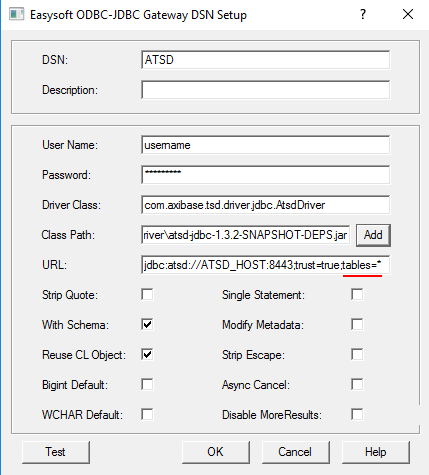
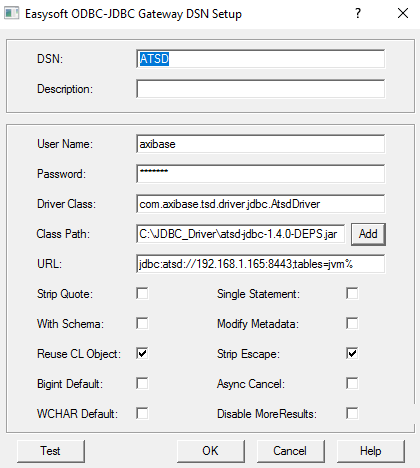
Minor fixes

diff --git a/integration/spss/statistics/README.md b/integration/spss/statistics/README.md
@@ -20,7 +20,7 @@ Analyze | Apply statistical functions to the dataset.
 ## Load Sample Data into ATSD
 
 1. Log into the ATSD web interface
-2. Open **Metrics -> Data Entry**, select the 'Commands' tab.
+2. Open **Metrics > Data Entry**, select the 'Commands' tab.
 3. Copy the [series commands](resources/commands.txt) into the form and click Submit/Send.
 
 ![](resources/metrics_entry.png)
@@ -87,7 +87,7 @@ WHERE T0.datetime BETWEEN '2013-01-01T00:00:00Z' AND '2017-01-01T00:00:00Z'
 ### Import from CSV Files
 
 * Export data from ATSD into CSV files as described in the **Exporting Data from ATSD** section at the end of this article.
-* Open **File -> Import Data -> CSV Data...**.
+* Open **File > Import Data > CSV Data...**.
 * Select the desired CSV files and click Open to import the `prices.sav` and `weights.sav` files.
 
 ![](images/import_dataset.png)
@@ -108,7 +108,7 @@ To prevent the `datetime` and `value` columns from being merged, their names mus
 
 Merge the two datasets by adding the `weight` column from the `weights.sav` dataset to the `prices.sav` dataset.
 
-* Open **Data -> Merge Files... -> Add Variables...**
+* Open **Data > Merge Files... > Add Variables...**
 * Select `weights.sav` dataset.
 * Select the desired table you want to merge it with. 
 * Choose the "One-to-Many" option and open the 'Variables' tab in the dialog window.
@@ -133,7 +133,7 @@ To calculate the weighted CPI for each year, the CPI value for a given category 
 
 Open the `prices_merged.sav` dataset and create the new column `categ_ind`.
 
-* Open **Transform -> Compute Variable...**  
+* Open **Transform > Compute Variable...**  
 * Place the columns from the left into the expression editor and specify a formula. 
 * Select the `value` and `weight` columns, divide `weight` by 1000 and multiply `value` by the adjusted `weight`. 
 * Assign a name to the new column.
@@ -150,13 +150,13 @@ SPSS provides two alternatives to aggregate data by period.
   
 #### Aggregation using the Analyze Menu
     
-* Open **Analyze -> Reports -> Report Summaries in Columns...** 
+* Open **Analyze > Reports > Report Summaries in Columns...** 
 * Move the `categ_index` column to the 'Summary Variables' field and select the `SUM` aggregation function. 
 * Set the `datetime` column as the break variable, which is used to group the resulting data. You can format aggregation columns in the dialog window.
 
 ![](images/analysis_reports_summary_columns.png)
     
-* Publish the report by selecting **File -> Export As a Web Report** in the output window.
+* Publish the report by selecting **File > Export As a Web Report** in the output window.
 * The output contains the processing log in the results window.
     
     ![](images/htm_report_spss.png)
@@ -167,7 +167,7 @@ SPSS provides two alternatives to aggregate data by period.
 
 #### Aggregation using the Data Menu
     
-* Open **Data -> Aggregate...** 
+* Open **Data > Aggregate...** 
 * Set `categ_ind` as the summary variable and apply the `SUM` function
 * Set `datetime` as the break variable
 * Customize column formats and output options
@@ -193,7 +193,7 @@ metric m:cpi_price
  
 - Open the previously created dataset in SPSS.
 
-- Select **Transform** - **Compute Variable...**
+- Select **Transform > Compute Variable...**
 
 ![](images/atsd_export_2.png)
 
@@ -214,7 +214,7 @@ metric m:cpi_price
 
 ![](images/atsd_export_6.png)
 
-- Open the **File** menu and select **Export** -> **Database...**.
+- Open the **File** menu and select **Export > Database...**.
 
 ![](images/atsd_export_7.png)
 

diff --git a/integration/pentaho/report-designer/README.md b/integration/pentaho/report-designer/README.md
@@ -24,7 +24,7 @@
 To complete this exercise, sample data must be available in your ATSD instance.
 
 1. Log into the ATSD web interface
-2. Open **Metrics -> Data Entry**, select the 'Commands' tab.
+2. Open **Metrics > Data Entry**, select the 'Commands' tab.
 3. Copy the [series commands](resources/commands.txt) into the form and click Submit/Send.
 
 ![](resources/metrics_entry.png)
@@ -52,7 +52,7 @@ To calculate a weighted inflation index we need to multiply the CPI of each cate
 
 - Enter JDBC URL into the `Custom Connection URL` field, for example:
 
-  `jdbc:atsd:ATSD_HOSTNAME:8443;tables=inflation*;expandTags=true`
+  `jdbc:atsd:ATSD_HOSTNAME:8443;tables=inflation%;expandTags=true`
 
 > `ATSD_HOSTNAME` is the hostname of the target ATSD instance
 > Review ATSD JDBC [URL parameters](https://github.com/axibase/atsd-jdbc/blob/master/README.md) for additional details.
@@ -84,9 +84,9 @@ Result of `SELECT 1` test query:
 `TABLE_NAME_FILTER` is a list of comma-separated metrics or metric expressions to be displayed as tables in the MatLab Database Browser.
 
 `TABLE_NAME_FILTER` examples:
-- `*java*` for metrics that contains word `java`
-- `custom.metric*` for metrics whose name starts with `custom.metric`
-- `*2017` for metrics whose name ends with `2017`
+- `%java%` for metrics that contains word `java`
+- `custom.metric%` for metrics whose name starts with `custom.metric`
+- `%2017` for metrics whose name ends with `2017`
 
 ATSD Schema can be viewed in SQL Query Designer tool:
 

diff --git a/administration/support.md b/administration/support.md
@@ -4,12 +4,11 @@ Provide the following artifacts as part of your support request related to a ser
 
 ## 1. ATSD Version Information
 
-* A. **Admin: Build Info** page: Revision Number and HBase Version.
+* A. **Admin > System Information** page. Select/copy rows to a text file.
    
-* B. **Admin: Server Properties** page. Select/copy rows to a text file.
+* B. **Admin > Server Properties** page. Select/copy rows to a text file.
    
-* C. **Admin: System Info** page. Select/copy rows to a text file.
-   
+  
 ## 2. Operating System Information
 
 * A. Output of system commands:
@@ -33,11 +32,11 @@ Provide the following artifacts as part of your support request related to a ser
    
 ## 5. Monitoring Statistics
 
-* A. Screenshot of the **Portals: ATSD** portal for the time period covering the issue.
+* A. Screenshot of the **Portals > ATSD** portal for the time period covering the issue.
    
-* B. Screenshot of the **Portals: ATSD Log Viewer** portal for the time period covering the issue.
+* B. Screenshot of the **Portals > ATSD Log Viewer** portal for the time period covering the issue.
    
-* C. Screenshots from the **Portals: ATSD Metric Viewer** portal for a subset of relevant metrics.
+* C. Screenshots from the **Portals > ATSD Metric Viewer** portal for a subset of relevant metrics.
    
 * D. CSV Export of the following query in the SQL console. Replace datetime to match the hour when the issue occurred.
    

diff --git a/integration/nmon/ad-hoc.md b/integration/nmon/ad-hoc.md
@@ -20,7 +20,7 @@ nmon AIX:
 
 This is a one time task.
 
-- Navigate to ##Admin –> Portals##.
+- Navigate to **Admin > Portals**.
 - At the bottom of the page click "Import" and select either the downloaded `nmon\_AIX` or `nmon\_Linux` portal. If you are collecting data from AIX systems, choose `nmon \_AIX`. If you are collecting data from Linux systems, choose `nmon\_Linux`.
 - On the Portals page, keep a note of the unique portal ID that you just imported.
 
@@ -28,7 +28,7 @@ This is a one time task.
 
 ###  Upload the nmon File:
 
-- Navigate to ##Admin –> nmon Parsers##
+- Navigate to **Configuration > Parsers: nmon**
 - At the bottom of the page, click "Upload" to import your nmon file or archive of nmon files using the "default" nmon parser.
 - Keep a note of the hostname for which you have just uploaded the data.
 
@@ -41,6 +41,6 @@ You can learn more about uploading nmon files into ATSD
 
 -   Navigate to the below URL. Replace **atsd\_server** with your ATSD url, **hostname** with the hostname for which you have uploaded the nmon file, and **portal\_id** with your portal ID:
 
-    http://**atsd\_host**:8088/portal/tabs?entity=**hostname**&id=**portal\_id**
+    https://**atsd\_host**:8443/portal/tabs?entity=**hostname**&id=**portal\_id**
 
 ![](resources/AIX_nmon_portal1.png "AIX_nmon_portal")

diff --git a/integration/pentaho/data-integration/README.md b/integration/pentaho/data-integration/README.md
@@ -46,7 +46,7 @@ To calculate a weighted inflation index we need to multiply the CPI of each cate
 
 - Enter JDBC URL into the `Custom Connection URL` field where `ATSD_HOSTNAME` is the hostname of the ATSD database instance:
 
-  `jdbc:atsd:ATSD_HOSTNAME:8443;tables=inflation*`
+  `jdbc:atsd:ATSD_HOSTNAME:8443;tables=inflation%'
 
 > `tables` is an optional metric name filter. Review ATSD JDBC [URL parameters](https://github.com/axibase/atsd-jdbc#jdbc-connection-properties-supported-by-driver) for additional details.
 
@@ -64,9 +64,9 @@ To calculate a weighted inflation index we need to multiply the CPI of each cate
 - Modify the `tables` parameter in the `Custom Connection URL` field. The parameter is a list of comma-separated metrics or metric expressions to be displayed as tables in the Database Browser.
 
 Filter examples:
-- `*java*` for metrics that contains `java` keyword
-- `custom.metric*` for metrics whose name starts with `custom.metric`
-- `*2017` for metrics whose name ends with `2017`
+- `%java%` for metrics that contains `java` keyword
+- `custom.metric%` for metrics whose name starts with `custom.metric`
+- `%2017` for metrics whose name ends with `2017`
 
 Click on the `Explore` button to view the schema:
 

diff --git a/integration/odbc/table-config.md b/integration/odbc/table-config.md
@@ -12,13 +12,13 @@ This document describes how to reconfigure the ODBC datasource if the list of ta
 ![](images/table_config_2.png)
 
 - Modify or append `tables` property to the DSN URL to filter metrics by name in the Query
-  Builder. For example, `tables=*` displays all ATSD metrics as tables whereas `tables=infla*`
+  Builder. For example, `tables=%` displays all ATSD metrics as tables whereas `tables=infla%`
   shows only metrics that start with the characters 'infla'. 
 
   ```text
-    jdbc:atsd://ATSD_HOST:8443;tables=*
-    jdbc:atsd://ATSD_HOST:8443;tables=infla*
-    jdbc:atsd://ATSD_HOST:8443;tables=infla*,*finance*
+    jdbc:atsd://ATSD_HOST:8443;tables=%
+    jdbc:atsd://ATSD_HOST:8443;tables=infla%
+    jdbc:atsd://ATSD_HOST:8443;tables=infla%,%finance%
   ```
   
 ![](images/table_config_3.png)

diff --git a/integration/tableau/README.md b/integration/tableau/README.md
@@ -28,7 +28,7 @@ To load the data, log in to ATSD and submit these commands on the **Metrics > Da
 ### Install ODBC-JDBC Bridge
 
 - Install [ODBC-JDBC gateway](../odbc/README.md)  
-- Make sure that the 'Strip Quote' and 'Strip Escape' checkboxes are enabled
+- Make sure that the 'Strip Escape' checkbox is enabled
 
 If your ATSD installation has more than 10000 metrics, consider adding a `tables={filter}` property to the [JDBC URL](https://github.com/axibase/atsd-jdbc#jdbc-connection-properties-supported-by-driver) to filter the list of tables visible in Tableau.
 

diff --git a/integration/itm/README.md b/integration/itm/README.md
@@ -70,8 +70,8 @@ Because statistics from ITM agents are received by ATSD with no delay, this type
 ### Upload CSV Parsers into ATSD
 
 - Log in to the ATSD web interface.
-- Open the `Configuration->CSV:Parsers` page.
-- Click the [Import] button.
+- Open the **Configuration > Parsers: CSV** page.
+- Click the [Сreate] drop-down, select [Import].
 - Upload the CSV parser xml files that you downloaded previously.
 
 ### Configure `inotify` Script to Read CSV files and Upload Them into ATSD

diff --git a/integration/itm/metric-list.md b/integration/itm/metric-list.md
@@ -559,7 +559,7 @@ kvmcltrsrv.memory_total_utilization
 kvmcltrsrv.server_cpu_utilization
 ```
 
-##WebSphere MQ
+## WebSphere MQ
 
 ```css
 Name

diff --git a/integration/activemq/README.md b/integration/activemq/README.md
@@ -99,7 +99,7 @@ chmod 600 ./conf/jmx.password
 ```
 
 * Restart ActiveMQ server.
-* 
+
 ```sh
 ./bin/activemq stop
 ./bin/activemq start
